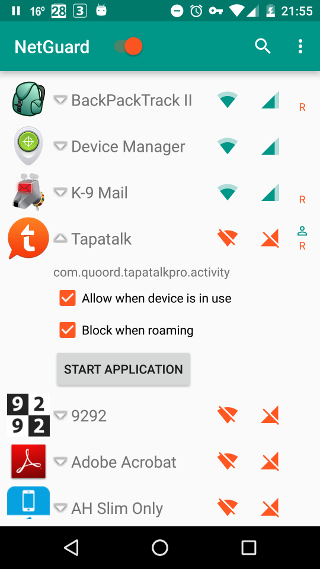
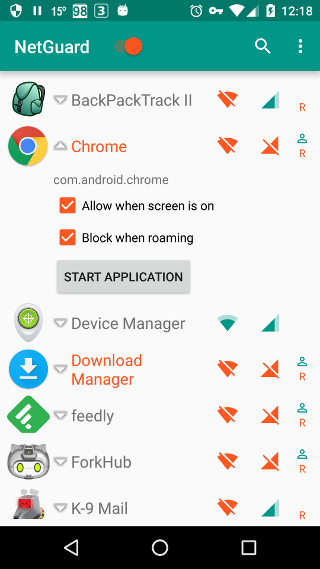
Updated texts / features
Closes #107

diff --git a/PLAY.md b/PLAY.md
@@ -36,7 +36,9 @@ Features:
 - No ads
 - No internet permission required
 - IPv4/IPv6 TCP/UDP supported
-- Block system and user applications
+- Optionally block when roaming
+- Optionally allow when screen on
+- Optionally block system applications
 - Material design
 
 Most of these features are the result of sending selected traffic to a VPN sinkhole, instead of filtering all internet traffic.

diff --git a/README.md b/README.md
@@ -36,7 +36,9 @@ Features
 * No ads
 * No internet permission required
 * IPv4/IPv6 TCP/UDP supported
-* Block system and user applications
+* Optionally block when roaming
+* Optionally allow when screen on
+* Optionally block system applications
 * Material design
 
 Most of these features are the result of sending selected traffic to a sinkhole, instead of filtering all internet traffic.
